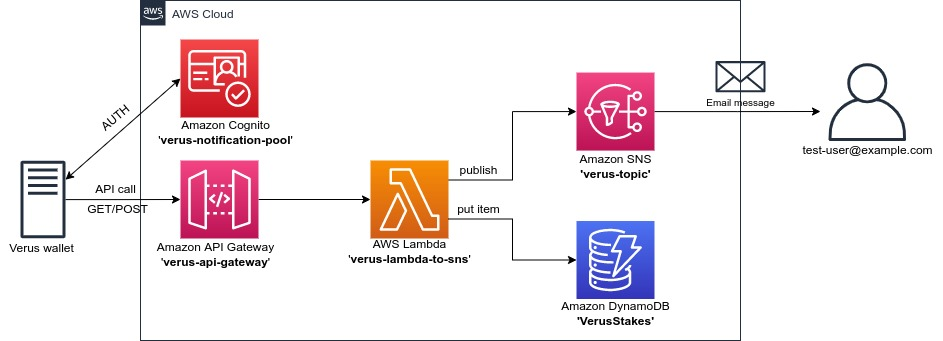
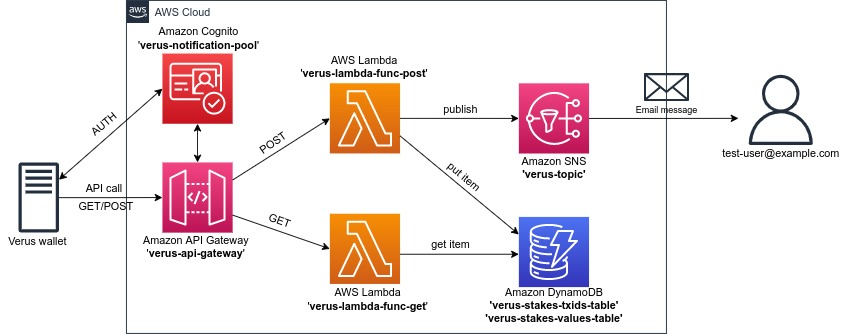
Updated README.md file.

Changed region(s): [[0.0, 0.0599, 1.0, 0.988], [0.1531, 0.0, 0.245, 0.0898]]

diff --git a/README.md b/README.md
@@ -11,11 +11,15 @@
 ## Features
 * The project uses Python script and AWS services to notify the user about the new staking reward (stake) in the VRSC wallet.
 * The `Terraform` tool or `boto3` AWS SDK for Python are used to build and destroy dedicated environment in the AWS Cloud.
-* The `check_new_stake.py` script can be run at regular intervals on the machine running the VRSC wallet (with cronjob or systemd timer). If a new stake arrives, the script calls the **API Gateway** in AWS Cloud.
-* When the **API Gateway** URL is invoked, the created AWS resources will send email notification to a selected address.
+* The `check_new_stake.py` script can be run at regular intervals on the host running the VRSC wallet (with cronjob or systemd timer). If a new stake arrives, the script calls the **API Gateway** in AWS Cloud (with POST method).
+* When the **API Gateway** URL is invoked:
+  - the AWS resources will send email notification to a selected address;
+  - information about new stake are added to the **Amazon DynamoDB** tables.
 * Orphan stakes and new transactions (transferring cryptocurrency from/to wallet) are not counted.
 * The email address that will be notified about new stake is stored in `.env` file (`EMAIL_TO_NOTIFY`).
-* The new stake is also added to the **Amazon DynamoDB** table (with timestamp and stake value).
+* In **Amazon DynamoDB** stakes data is stored in two tables:
+  - `verus_stakes_txids_table` - information about each stake (stake transaction id, stake value, stake timestamp);
+  - `verus_stakes_values_table` - information about the value and number of stakes for a given period of time (year and month).
 * Access to **API Gateway** is authorized with **Amazon Cognito**.
 * Additionally, access to the **API Gateway** can also be limited to a selected ip address (VRSC wallet public ip address):
   - To limit access to specific public ip address - set `WALLET_PUBLIC_IP='your-public-ip-address'` in `.env` file;
@@ -23,13 +27,16 @@
 * The **API Gateway** URL and **Amazon Cognito** data are added to `new_stake_script/.env-api` file during AWS environment build.
 * Data stored in `new_stake_script/.env-api` file are used by the `check_new_stake.py` script when it detects a new stake.
 * The script `check_new_stake.py` saves its logs in a `new_stake_script/stake.log` file.
+* Two additional scripts are included in the `new_stake_script` folder:
+  - Python script `call_aws_api.py` - call API Gateway with GET and POST methods;
+  - Bash script `call_aws_cognito_api.sh` - get Amazon Cognito token and call API Gateway with GET method.
 
 ## Project architecture
 ![Project architecture](./images/project_architecture.jpg)
 
 ## Getting Started
 
-Below instructions will get you a copy of the project running on your local machine.
+Below instructions will get you a copy of the project running on your local host.
 
 ### Requirements
 Python third party packages:
@@ -95,7 +102,7 @@ In both phases we will use the `virtualenv` tool to build the application.
       (venv) $ deactivate
       ```
 
-5. Once the AWS resources are properly deployed, you should copy `new_stake_script` directory to the host where VRSC wallet is running.
+5. Once the AWS resources are properly deployed, you should copy `new_stake_script` directory to the host where the VRSC wallet is running.
     ```bash
     # example of a copying a dictionary to remote host using the rsync tool 
     $ rsync -avzP new_stake_script/ user@your-vrsc-wallet-host:~/new_stake_script/
@@ -129,3 +136,83 @@ In both phases we will use the `virtualenv` tool to build the application.
       ```bash
       (venv) $ python terraform_resources.py destroy
       ```
+     
+## Run additional scripts
+
+- Extra scripts should be run on the host where the VRSC wallet is running and after the AWS resources deployment.
+- Scripts should be run from `new_stake_script` directory.
+
+#### Script `call_aws_api.py` usage:
+```bash
+(venv) $ cd new_stake_script/
+(venv) $ python call_aws_api.py
+usage: call_aws_api.py [-h] {get,post} ...
+
+The verus-notification API Gateway calling script
+
+optional arguments:
+  -h, --help  show this help message and exit
+
+Valid HTTP methods:
+  {get,post}
+    get       get value of VRSC stakes in selected time period
+    post      post new VRSC stake with specified value
+
+"post" method usage: call_aws_api.py get [-h] [-d DATE]
+
+optional arguments:
+  -h, --help            show this help message and exit
+  -d DATE, --date DATE  year or month of year (default: 2022-01)
+
+"get" method usage: call_aws_api.py post [-h] [-v VALUE]
+
+optional arguments:
+  -h, --help            show this help message and exit
+  -v VALUE, --value VALUE
+                        stake value (default: 12.0)
+```
+You can use the `call_aws_api.py` script using one of the following commands:
+```bash
+# Run script with 'get' and default option (current month).
+python call_aws_api.py get
+# You should get the similar output:
+{'statusCode': 200, 'body': '{"timeframe": "2022-01", "stakes_count": 0, "stakes_amount": 0}'}
+# or
+{'statusCode': 200, 'body': '{"timeframe": "2022-01", "stakes_count": 3.0, "stakes_amount": 124.0}'}
+
+# Run script with 'get' and the specified date (year 2022).
+python call_aws_api.py get --date 2022
+# You should get the similar output:
+{'statusCode': 200, 'body': '{"timeframe": "2022", "stakes_count": 4.0, "stakes_amount": 136.0}'}
+
+# Run script with 'get' and the specified date (December 2021).
+python call_aws_api.py get --date 2021-12
+# You should get the similar output:
+{'statusCode': 200, 'body': '{"timeframe": "2021-12", "stakes_count": 0, "stakes_amount": 0}'}
+
+# Run script with 'post' and default option (stake value = 12 VRSC).
+python call_aws_api.py post
+# You should get the similar output:
+{'statusCode': 200, 'body': '"Tables updated and notification sent!"'}
+
+# Run script with 'post' and stake value = 100 VRSC.
+python call_aws_api.py post --value 100
+# You should get the similar output:
+{'statusCode': 200, 'body': '"Tables updated and notification sent!"'}
+```
+
+#### Script `call_aws_cognito_api.sh` usage:
+```bash
+(venv) $ cd new_stake_script/
+(venv) $ ./call_aws_cognito_api.sh
+   ________                                         __  _
+  / ____/ /_  ____  ____  ________     ____  ____  / /_(_)___  ____
+ / /   / __ \/ __ \/ __ \/ ___/ _ \   / __ \/ __ \/ __/ / __ \/ __ \
+/ /___/ / / / /_/ / /_/ (__  )  __/  / /_/ / /_/ / /_/ / /_/ / / / /
+\____/_/ /_/\____/\____/____/\___/   \____/ .___/\__/_/\____/_/ /_/
+                                         /_/
+
+1. Get Cognito Access Token
+2. Get Cognito Access Token and call API Gateway with GET method
+>>>
+```
